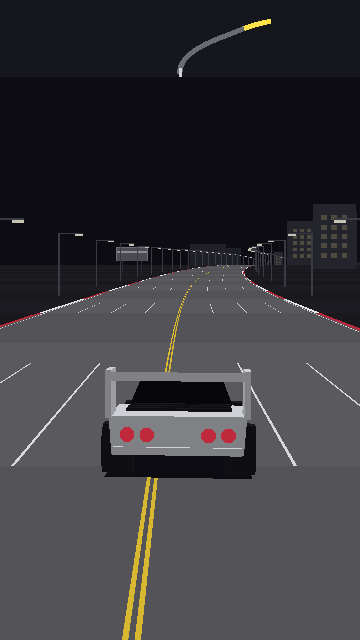
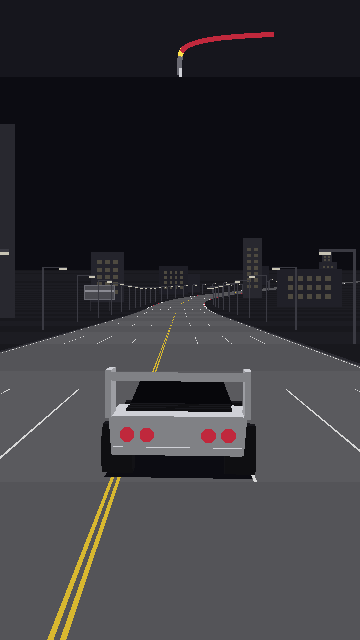
Balance log for R31 figures, default track and bot lines; map-curve baseline on the new track

diff --git a/docs/balance.md b/docs/balance.md
@@ -138,3 +138,8 @@
 | 2026-11-19 | `sprites.json`: `roadside.buildings` | — | everyMin 6, everyMax 14, offset 3–6, variants 4, drawDistance 250, windowMinPx 24, windowMargin 0.14, windowGap 0.45; формы 1600×2400 (3×5 окон), 2400×1400 (5×3), 1200×3600 (2×7), 2000×2000 (4×4) [старт] | R32: средний план; окна только у ближних строений (бюджет инстансов) | скриншот `roadside` |
 | 2026-11-19 | `scenarios.json`: `roadside` | — | прямая, z 55, 1 тик [старт] | R32: в кадре пара фонарей, билборд (сегмент 71 при seed 1) и строения | скриншот `roadside` |
 | 2026-11-19 | `palette.json`: `lampPole`, `lampHead`, `billboardLeg`, `billboardFrame`, `billboard[4]`, `billboardStripe`, `building[4]`, `buildingWindow`; `postCap` убран | — | #3a3a42, #c8c4b4, #2a2a31, #6a6a72, #3c3848/#48383c/#34424a/#4a4a50, #8a8a92, #24242c/#202028/#28282f/#1e1e26, #4e4a40 [старт] | R32: тёмные низконасыщенные заглушки, без кислотных цветов; в арт-библию не внесены | скриншот `roadside` |
+| 2026-11-19 | `tracks/figures.json`: словарь R31 | — | `straight` 0/60/0; `kink` easy 20/40/20; `sweeper` medium 30/240/30; `hairpin` hard 40/200/35; `flick` hard 35/100/20 → hard 20/100/35 (переход 40); `esses` medium ×4, переходы 48; `tightening` medium 30/150/0 → hard 0/150/35; `opening` hard 40/150/0 → medium 0/150/30; `carousel` hard 40/420/40; `double` hard 40/120/35 ×2 (пауза 75) [старт] | R31: фигуры на полном угле (hairpin, carousel), резкие перекладки (flick), особые связки (tightening, opening, double, esses) | `tests/sim/figures.test.ts`; эксперт и average проходят каждую фигуру без вылета (5 seed × 3 круга) |
+| 2026-11-19 | `tracks/test-twisty.json`: трасса по умолчанию | 18 секций, 5340 сегм. | 16 фигур: straight, hairpin R, flick L, kink R, carousel L, esses R, tightening R, kink L, double L, flick R, opening R, sweeper L, hairpin L, flick R, tightening L, sweeper R; 4814 сегм. (80.2 с на `vmax`), прямых 1.2%, hill на 15 из 16 [старт] | R31 и отзыв автора 2026-11-19: дрифт на полном угле, перекладки, разнообразие, непредсказуемые стороны, почти без прямых | `npm run trackmap` → `docs/tracks/test-twisty.md`; `tests/sim/figures.test.ts` |
+| 2026-11-19 | `bots.json`: `expert` новая линия дрифта `driftLine` width, `driftExitX` 0.7, `driftAngleFloor` 0.15, `driftPlanMin` 0.5 с; `driftEntryX` 0 → 0.7 | fixed (`driftLineX` 0.4) | width [старт] | T16/R22b: мастерство — наименьший достаточный угол: вход у внутренней кромки, к концу дрифта вынос к 0.7 снаружи (там же вход в следующую фигуру при перекладке) | `npm run bot`: expert 83.46 с, average 88.00 с (−5.2%) |
+| 2026-11-19 | `bots.json`: `average.driftLineX` | 0.2 | 0 | T16: average держит центр дороги (простая версия); шум и реакция не менялись | `npm run bot`: average 88.00 с (с 0.2 было 88.86 с на 20 seed) |
+| 2026-11-19 | состояние гейта на `feat/stage3-handling` (трасса из фигур, линия эксперта) | — | NO-GO: `expert-drift-holds-speed` 0.91 при ≥ 0.95 (известный конфликт с R22b ≥ 0.85); `offroad-recovery` 1.85 с при ≤ 1.5; остальное PASS (novice 129.17 с, average 88.00 с, expert 83.46 с, `expert-gap` 5.2%) | коридор не менялся | `npm run bot && npm run gate` |
